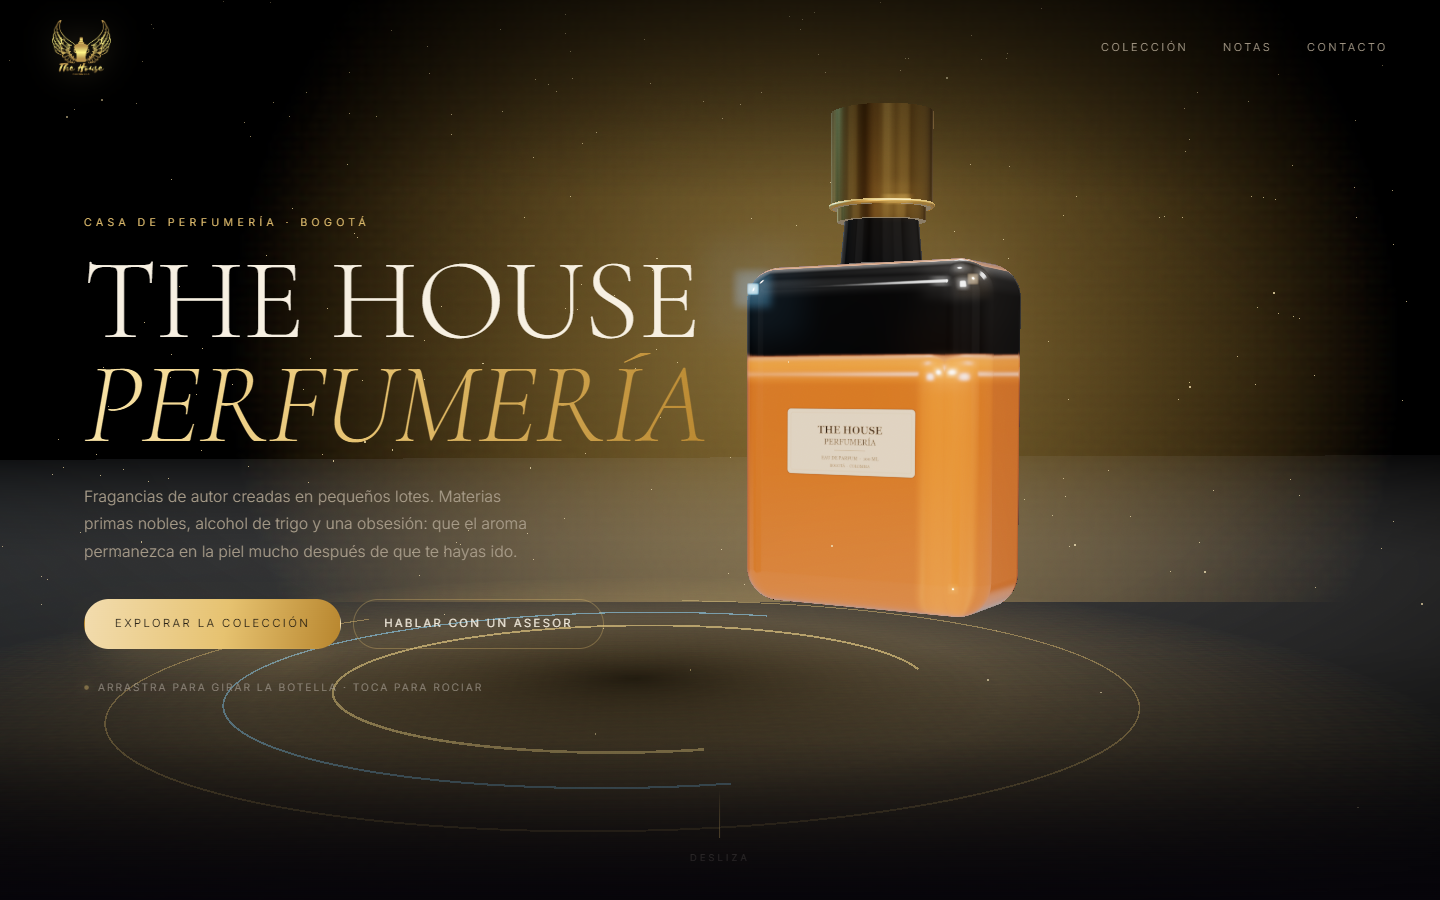
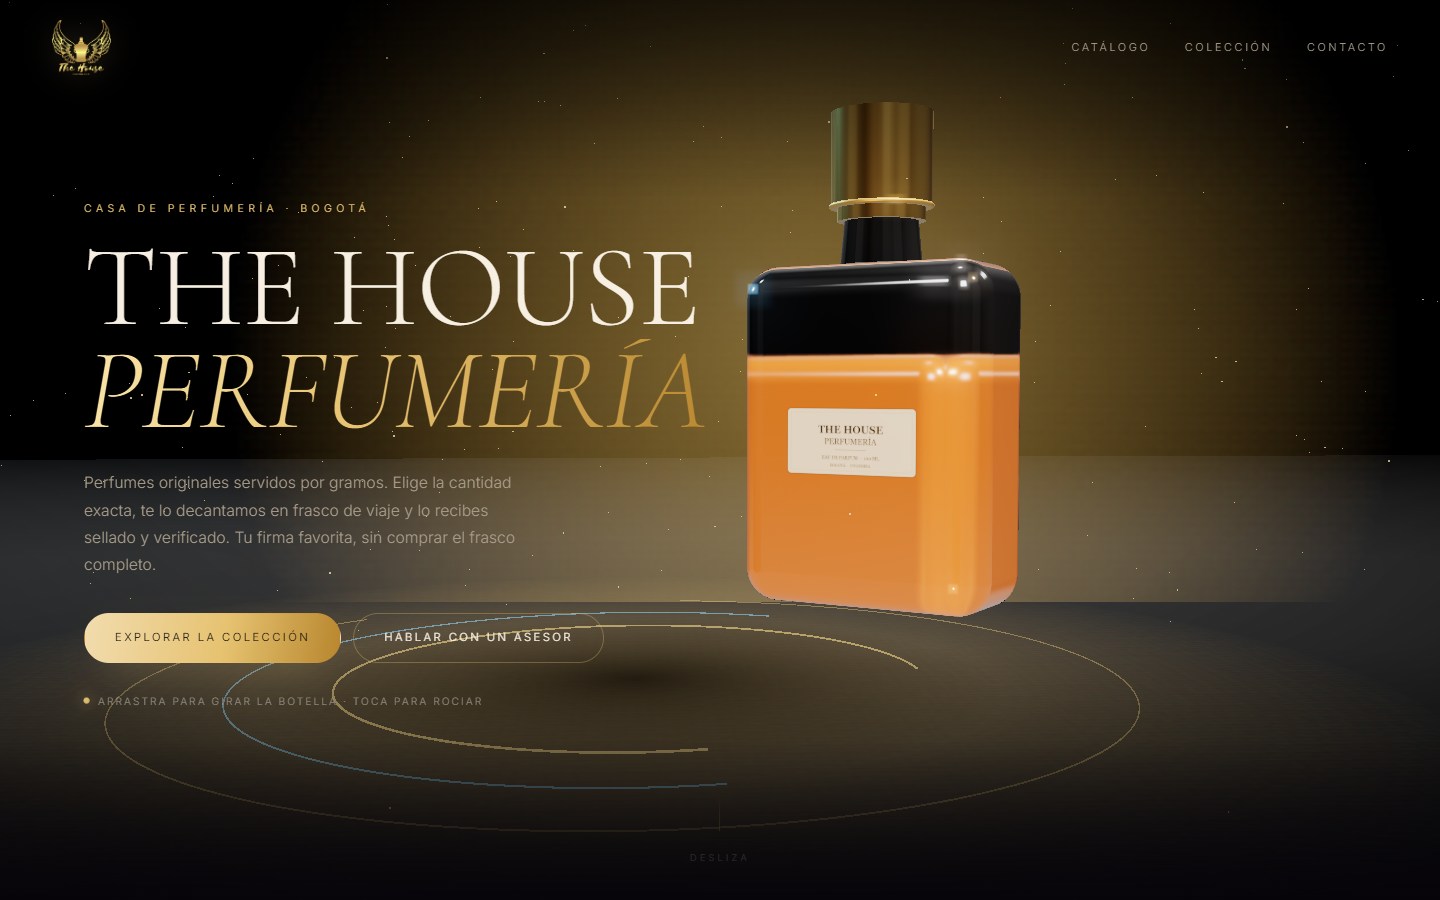
Adapta la tienda a venta por gramos con selector de cantidad

diff --git a/index.html b/index.html
@@ -49,9 +49,9 @@
         <p class="eyebrow">Casa de perfumería · Bogotá</p>
         <h1><span>THE HOUSE</span><em>PERFUMERÍA</em></h1>
         <p class="lede">
-          Fragancias de autor creadas en pequeños lotes. Materias primas nobles,
-          alcohol de trigo y una obsesión: que el aroma permanezca en la piel
-          mucho después de que te hayas ido.
+          Perfumes originales servidos por gramos. Elige la cantidad exacta,
+          te lo decantamos en frasco de viaje y lo recibes sellado y verificado.
+          Tu firma favorita, sin comprar el frasco completo.
         </p>
         <div class="actions">
           <a class="btn btn--solid" href="#coleccion">Explorar la colección</a>
@@ -69,17 +69,25 @@
           <p class="eyebrow">01 — Catálogo</p>
           <h2>Fragancias <em>originales</em></h2>
           <p class="section__lede">
-            Trabajamos con casas de perfumería reconocidas. Cada frasco llega
-            sellado, con lote verificable y garantía de autenticidad.
+            Perfumes 100% originales servidos por gramos. Elige la cantidad,
+            confirma por WhatsApp y recíbelo donde estés.
           </p>
         </header>
 
+        <figure class="banner reveal">
+          <img src="assets/productos/banner-por-gramos.webp" alt="" loading="lazy" />
+          <figcaption>
+            <p class="eyebrow">Venta a granel</p>
+            <p class="banner__title">Tu perfume favorito, <em>por gramos</em></p>
+          </figcaption>
+        </figure>
+
         <div class="grid grid--catalog">
-          <article class="product reveal">
+          <article class="product reveal" data-unit="4500" data-name="212 VIP Men de Carolina Herrera">
             <a class="product__media"
-               href="https://wa.me/573001234567?text=Hola%2C%20quiero%20el%20212%20VIP%20Men"
+               href="https://wa.me/573001234567?text=Hola%2C%20quiero%2010%20gramos%20de%20212%20VIP%20Men"
                target="_blank" rel="noopener"
-               aria-label="Consultar 212 VIP Men por WhatsApp">
+               aria-label="Pedir 212 VIP Men por WhatsApp">
               <img src="assets/productos/212-vip-men.webp"
                    alt="212 VIP Men de Carolina Herrera: frasco plateado y caja blanca sobre una mesa"
                    width="500" height="500" loading="lazy" />
@@ -92,11 +100,18 @@
                 Vodka, lima y cuero sobre ámbar. Amaderado aromático para la
                 noche urbana.
               </p>
+              <p class="product__unit">$ 4.500 <small>/ gramo</small></p>
+              <div class="product__grams" role="group" aria-label="Cantidad en gramos">
+                <button type="button" data-g="5">5 g</button>
+                <button type="button" data-g="10" class="is-active">10 g</button>
+                <button type="button" data-g="15">15 g</button>
+                <button type="button" data-g="30">30 g</button>
+              </div>
               <div class="product__foot">
-                <span class="product__price">$ 419.000 <small>/ 100 ml</small></span>
-                <a class="product__cta"
-                   href="https://wa.me/573001234567?text=Hola%2C%20quiero%20el%20212%20VIP%20Men"
-                   target="_blank" rel="noopener">Consultar <span aria-hidden="true">→</span></a>
+                <span class="product__price" data-total>$ 45.000</span>
+                <a class="product__cta" data-wa
+                   href="https://wa.me/573001234567?text=Hola%2C%20quiero%2010%20gramos%20de%20212%20VIP%20Men"
+                   target="_blank" rel="noopener">Pedir <span aria-hidden="true">→</span></a>
               </div>
             </div>
           </article>
@@ -106,11 +121,11 @@
               <p class="product__brand">¿No la encuentras?</p>
               <h3 class="product__name">Te conseguimos<br />tu fragancia</h3>
               <p class="product__desc">
-                Dinos qué perfume buscas y te confirmamos disponibilidad,
-                tamaño y precio el mismo día.
+                Dinos qué perfume quieres y cuántos gramos necesitas; te
+                confirmamos precio y disponibilidad el mismo día.
               </p>
               <a class="btn btn--solid"
-                 href="https://wa.me/573001234567?text=Hola%2C%20busco%20una%20fragancia"
+                 href="https://wa.me/573001234567?text=Hola%2C%20busco%20una%20fragancia%20por%20gramos"
                  target="_blank" rel="noopener">Escribir por WhatsApp</a>
             </div>
           </article>
@@ -274,5 +289,6 @@
     }
   </script>
   <script type="module" src="assets/app.js"></script>
+  <script src="assets/catalog.js" defer></script>
 </body>
 </html>

diff --git a/assets/styles.css b/assets/styles.css
@@ -487,6 +487,51 @@ h2 em { font-style: italic; color: var(--gold-2); }
 .card__price { font-family: var(--serif); font-size: 1.12rem; color: var(--gold-2); }
 .card__ml { font-size: 0.6rem; letter-spacing: 0.24em; text-transform: uppercase; color: rgba(169, 161, 150, 0.7); }
 
+/* ---------- Banner ---------- */
+
+.banner {
+  position: relative;
+  height: clamp(230px, 34vh, 360px);
+  margin: 0 0 38px;
+  overflow: hidden;
+  border: 1px solid var(--line);
+  border-radius: 22px;
+}
+
+.banner img {
+  position: absolute;
+  inset: 0;
+  width: 100%;
+  height: 100%;
+  object-fit: cover;
+}
+
+.banner::after {
+  content: "";
+  position: absolute;
+  inset: 0;
+  background: linear-gradient(180deg, rgba(6, 4, 10, 0.08) 18%, rgba(6, 4, 10, 0.8) 100%);
+}
+
+.banner figcaption {
+  position: absolute;
+  left: clamp(20px, 4vw, 44px);
+  right: clamp(20px, 4vw, 44px);
+  bottom: clamp(18px, 3vw, 34px);
+  z-index: 1;
+}
+
+.banner .banner__title {
+  margin: 0;
+  font-family: var(--serif);
+  font-weight: 300;
+  font-size: clamp(1.5rem, 3.4vw, 2.7rem);
+  line-height: 1.06;
+  text-wrap: balance;
+}
+
+.banner .banner__title em { font-style: italic; color: var(--gold-2); }
+
 /* ---------- Catálogo ---------- */
 
 .grid--catalog {
@@ -572,6 +617,50 @@ h2 em { font-style: italic; color: var(--gold-2); }
   font-size: 0.85rem;
   line-height: 1.7;
   color: var(--muted);
+}
+
+.product__unit {
+  margin: 0 0 14px;
+  font-family: var(--serif);
+  font-size: 1.06rem;
+  color: var(--gold-2);
+}
+
+.product__unit small {
+  font-family: var(--sans);
+  font-size: 0.56rem;
+  letter-spacing: 0.16em;
+  text-transform: uppercase;
+  color: rgba(171, 159, 140, 0.8);
+}
+
+.product__grams {
+  display: flex;
+  flex-wrap: wrap;
+  gap: 8px;
+  margin: 0 0 18px;
+}
+
+.product__grams button {
+  padding: 8px 15px;
+  border: 1px solid rgba(230, 194, 112, 0.25);
+  border-radius: 999px;
+  background: transparent;
+  color: var(--ink);
+  font-family: var(--sans);
+  font-size: 0.72rem;
+  letter-spacing: 0.04em;
+  cursor: pointer;
+  transition: border-color 0.3s ease, background 0.3s ease, color 0.3s ease;
+}
+
+.product__grams button:hover { border-color: rgba(230, 194, 112, 0.6); }
+
+.product__grams button.is-active {
+  background: linear-gradient(100deg, #f2dcae, #e6c270 55%, #b8862e);
+  color: #14100a;
+  border-color: transparent;
+  font-weight: 500;
 }
 
 .product__foot {

diff --git a/assets/catalog.js b/assets/catalog.js
@@ -1,0 +1,35 @@
+/* Selector de gramos para el catálogo.
+   Cada tarjeta lleva data-unit (precio por gramo) y data-name (producto). */
+(function () {
+  var PHONE = "573001234567"; // Reemplaza por el WhatsApp real
+  var fmt = function (n) {
+    return "$ " + Number(n).toLocaleString("es-CO");
+  };
+
+  document.querySelectorAll(".product[data-unit]").forEach(function (card) {
+    var unit = parseFloat(card.getAttribute("data-unit"));
+    var name = card.getAttribute("data-name");
+    var totalEl = card.querySelector("[data-total]");
+    var waLink = card.querySelector("[data-wa]");
+    var buttons = card.querySelectorAll(".product__grams button");
+    if (!totalEl || !waLink || !buttons.length) return;
+
+    function update(grams) {
+      totalEl.textContent = fmt(unit * grams);
+      var msg = encodeURIComponent("Hola, quiero " + grams + " gramos de " + name + ".");
+      waLink.setAttribute("href", "https://wa.me/" + PHONE + "?text=" + msg);
+    }
+
+    buttons.forEach(function (btn) {
+      btn.addEventListener("click", function () {
+        buttons.forEach(function (b) { b.classList.remove("is-active"); });
+        btn.classList.add("is-active");
+        update(parseInt(btn.getAttribute("data-g"), 10));
+      });
+    });
+
+    var active = card.querySelector(".product__grams button.is-active") || buttons[0];
+    active.classList.add("is-active");
+    update(parseInt(active.getAttribute("data-g"), 10));
+  });
+})();

diff --git a/README.md b/README.md
@@ -45,20 +45,24 @@ start.cmd           Lanzador para Windows
 1. Guarda la foto en `assets/productos/` (cuadrada, mínimo 800×800 px).
 2. Conviértela a WebP para que pese poco (por ejemplo con Squoosh o `cwebp`).
 3. En `index.html`, dentro de `<div class="grid grid--catalog">`, duplica el
-   bloque `<article class="product">…</article>` y cambia: imagen, marca,
-   nombre, descripción, precio y los enlaces de WhatsApp (el texto del enlace
-   va codificado: `?text=Hola%2C%20quiero%20…`).
-4. La rejilla se acomoda sola: 2 columnas cuando hay pocos productos y más
+   bloque `<article class="product" data-unit="…" data-name="…">…</article>`.
+   Cambia: imagen, marca, nombre, descripción, el **precio por gramo** (en
+   `data-unit`), y el texto del enlace de WhatsApp.
+4. Los botones de gramos (`5 g / 10 g / 15 g / 30 g`) se pueden ampliar o
+   cambiar dentro del bloque; `assets/catalog.js` calcula el total y arma el
+   mensaje de WhatsApp automáticamente al hacer clic.
+5. La rejilla se acomoda sola: 2 columnas cuando hay pocos productos y más
    cuando el catálogo crece.
 
-La tarjeta punteada «Te conseguimos tu fragancia» puede quedarse al final como
-cierre del catálogo, o moverse a otra sección si el catálogo ya es largo.
+El modelo del sitio es **venta por gramos**: cada tarjeta muestra el precio por
+gramo y el total según la cantidad elegida.
 
 ## Personalizar
 
 | Qué | Dónde |
 | --- | --- |
 | Nombre de la marca, textos, precios, enlaces de contacto | `index.html` |
+| WhatsApp de la tienda (usado por el selector de gramos) | `assets/catalog.js` → `PHONE` |
 | Colores (dorado, fondo, tipografía) | `assets/styles.css` → `:root` |
 | Color del perfume y del tapón | `assets/app.js` → `liquidMat` / `gold` |
 | Velocidad de giro, anillos, polvo | `assets/app.js` → `animate()` y `buildRings()` |
